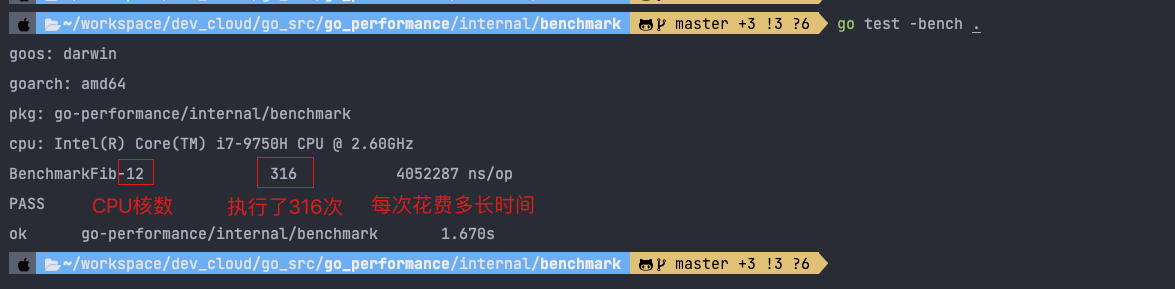
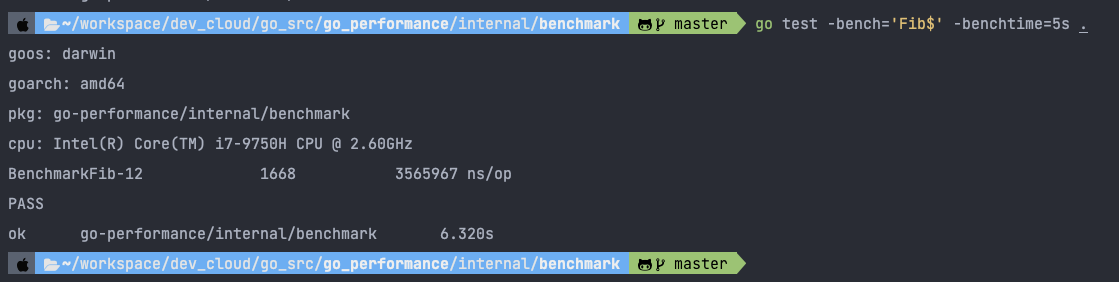
feat: changed images dir

diff --git a/internal/benchmark/fib_test.go b/internal/benchmark/fib_test.go
@@ -1,12 +1,66 @@
 package benchmark
 
-import "testing"
+import (
+	"testing"
+	"time"
+)
 
 // BenchmarkFib 基准测试
 // go test 命令默认不运行 benchmark 用例的，如果想运行 benchmark 用例，则需要加上 -bench 参数。
 // go test -bench .
 func BenchmarkFib(b *testing.B) {
 	for i := 0; i < b.N; i++ { //b.N 表示这个用例需要运行的次数。b.N 对于每个用例都是不一样的。 b.N 从 1 开始，如果该用例能够在 1s 内完成，b.N 的值便会增加，再次执行。b.N 的值大概以 1, 2, 3, 5, 10, 20, 30, 50, 100 这样的序列递增，越到后面，增加得越快。
+		Fib(30)
+	}
+}
+
+func BenchmarkGenerate(b *testing.B) {
+	for i := 0; i < b.N; i++ {
+		Generate(1000000)
+	}
+}
+
+func BenchmarkGenerateWithCap(b *testing.B) {
+	for i := 0; i < b.N; i++ {
+		GenerateWithCap(1000000)
+	}
+}
+
+func benchmarkGenerate(i int, b *testing.B) {
+	for n := 0; n < b.N; n++ {
+		Generate(i)
+	}
+}
+
+func BenchmarkGenerate1000(b *testing.B) {
+	benchmarkGenerate(1000, b)
+}
+func BenchmarkGenerate10000(b *testing.B) {
+	benchmarkGenerate(10000, b)
+}
+func BenchmarkGenerate100000(b *testing.B) {
+	benchmarkGenerate(100000, b)
+}
+func BenchmarkGenerate1000000(b *testing.B) {
+	benchmarkGenerate(1000000, b)
+}
+
+func BenchmarkFibResetTimer(b *testing.B) {
+	time.Sleep(time.Second * 3) //耗时准备任务 比如说数据准备
+
+	b.ResetTimer() // 重置计时器
+
+	for i := 0; i < b.N; i++ {
+		Fib(30)
+	}
+}
+
+func BenchmarkFibUseStartAndEndTimer(b *testing.B) {
+
+	for i := 0; i < b.N; i++ {
+		b.StopTimer()
+		time.Sleep(time.Second * 1) //耗时准备任务 比如说数据清理和重置
+		b.StartTimer()
 		Fib(30)
 	}
 }

diff --git a/internal/benchmark/fib.go b/internal/benchmark/fib.go
@@ -1,8 +1,32 @@
 package benchmark
 
+import (
+	"math/rand"
+	"time"
+)
+
 func Fib(n int) int {
 	if n == 0 || n == 1 {
 		return n
 	}
 	return Fib(n-2) + Fib(n-1)
+}
+
+func GenerateWithCap(n int) []int {
+	rand.Seed(time.Now().UnixNano())
+	nums := make([]int, 0, n)
+	for i := 0; i < n; i++ {
+		nums = append(nums, rand.Int())
+	}
+
+	return nums
+}
+
+func Generate(n int) []int {
+	rand.Seed(time.Now().UnixNano())
+	nums := make([]int, 0)
+	for i := 0; i < n; i++ {
+		nums = append(nums, rand.Int())
+	}
+	return nums
 }

diff --git a/internal/benchmark/benchmark.md b/internal/benchmark/benchmark.md
@@ -1,3 +1,25 @@
 ![img.png](images/img.png)
 
 benchmark 的默认时间是 1s，那么我们可以使用 -benchtime 指定为 3s
+![img_1.png](images/img_1.png)
+
+-benchtime 的值除了是时间外，还可以是具体的执行次数。
+![img_2.png](images/img_2.png)
+
+-count 参数可以用来设置benchmark的轮数。
+![img_3.png](images/img_3.png)
+
+使用 -benchmem 参数看到内存分配的情况 Generate 分配的内存是 GenerateWithCap 的 6 倍，设置了切片容量，内存只分配一次，而不设置切片容量，内存分配了 40 次。 GenerateWithCap 的耗时比
+Generate 少 20%。
+![img_5.png](images/img_5.png)
+
+复杂读观察 输入变为原来的 10 倍，函数每次调用的时长也差不多是原来的 10 倍 O(n)
+![img_7.png](images/img_7.png)
+
+通过b.ResetTimer() 将数据准备的代码耗时忽略掉。
+![img_8.png](images/img_8.png)
+
+通过 StopTimer & StartTimer 将数据准备/清理的代码耗时忽略掉。
+![img_10.png](images/img_10.png)
+![img_9.png](images/img_9.png)
+
